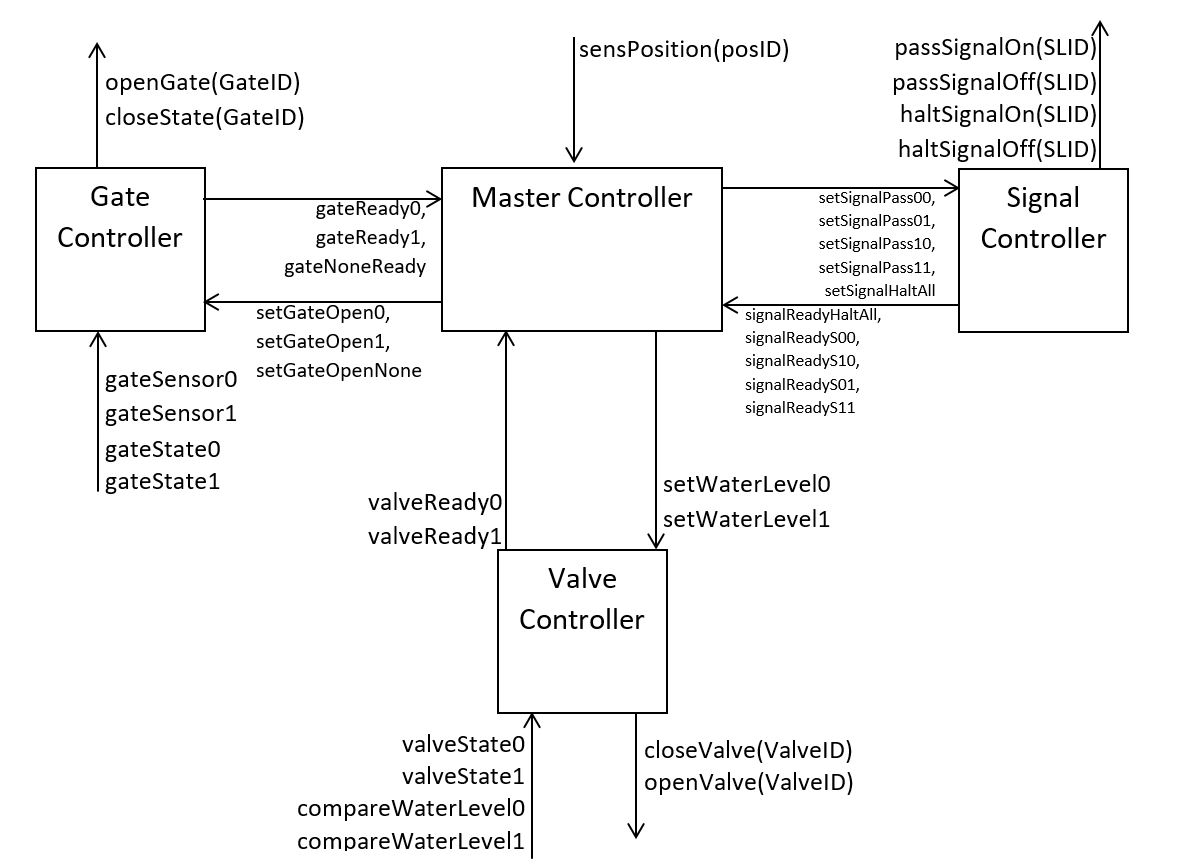
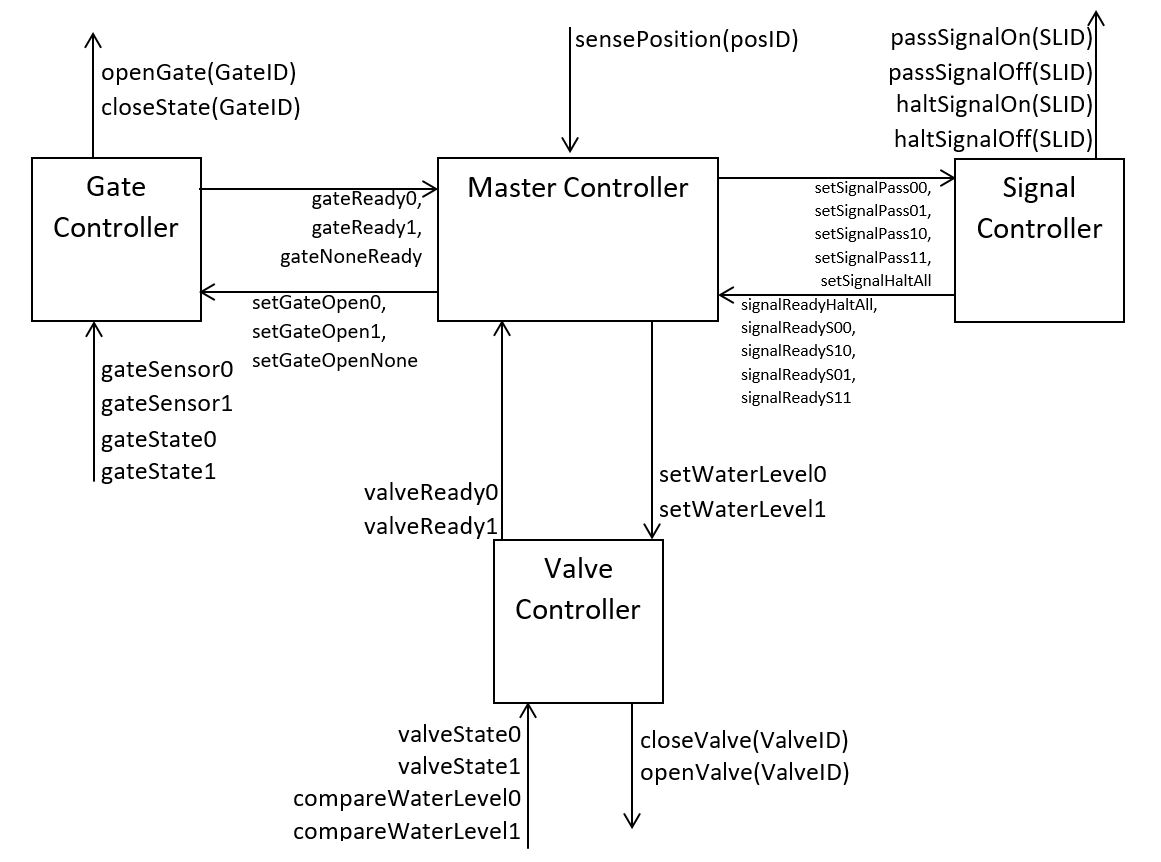
controllers 2.3 + table internal communications

Changed region(s): [[0.0, 0.0, 0.9612, 0.8144], [0.2481, 0.8144, 0.7442, 0.9954]]

diff --git a/Reports/Session5/subcontrollers.tex b/Reports/Session5/subcontrollers.tex
@@ -24,17 +24,28 @@ Master controller keeps track of the position of the ship inside the system. Its
 	\centering
 	\begin{tabular}{lll}
 		\toprule
-		\textbf{Internal actions} & \textbf{Description} & \textbf{Parameter} \\
+		\textbf{Internal actions} & \textbf{Description} \\
 		\midrule
-		setSignalPass & Set given signal to pass & \{0, signalID\} \\
-		setWaterLevel & Set the waterlevel to given level & Level\\
-		setGateOpen & Open the given gate & \{0, gateID\} \\
-		signalReady & setSignalPass successful & None\\
-		signalError & setSignalPass not successful & None \\
-		gateReady & setGateOpen successful & None\\
-		gateError & setGateOpen not successful & None\\
-		waterLevelReady & setWaterLevel successful & None\\
-		waterLevelError & setWaterLevel not successful & None\\
+		setSignalPass00 & Set signal 00 to pass  \\
+		setSignalPass01 & Set signal 01 to pass  \\
+		setSignalPass10 & Set signal 10 to pass  \\
+		setSignalPass11 & Set signal 11 to pass  \\
+		setSignalHaltAll & Set all the signal light to Halt\\
+		signalReadyS00 & Signal controller reply to the setSignalPass00 request \\
+		signalReadyS01 & Signal controller reply to the setSignalPass01 request \\
+		signalReadyS10 & Signal controller reply to the setSignalPass10 request \\
+		signalReadyS11 & Signal controller reply to the setSignalPass11 request \\
+		signalReadyHaltAll & Signal controller reply to the setSignalHaltHall request \\
+		setWaterLevel0 & request for open the valve 0 \\
+		setWaterLevel1 & request for open the valve 1 \\
+		valveReady0 & Valve controller reply to a setWaterLevel0 request\\
+		valveReady1 & Valve controller reply to a setWaterLevel1 request\\
+		setGateOpen0 & request to open the gate 0\\
+		setGateOpen1 & request to open the gate 1\\
+		setGateOpenNone & request to close all gates\\
+		gateReady0 & gate controller reply to a setGateOpen0\\
+		gateReady1 & gate controller reply to a setGateOpen1\\
+		gateReadyNone & gate controller reply to a setGateOpenNone\\
 		\bottomrule
 	\end{tabular}%
 	\caption{Internal commands}
